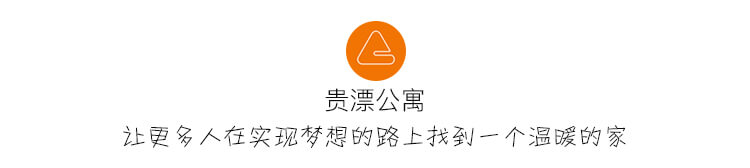
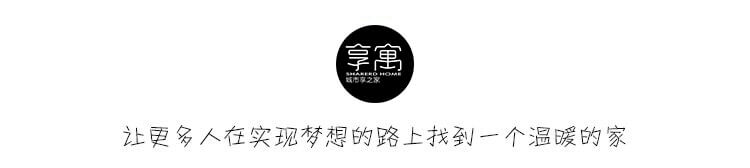
修改为享寓相关

Changed region(s): [[0.4293, 0.119, 0.5827, 0.6845]]

diff --git a/pages/mainpage/mainpage.js b/pages/mainpage/mainpage.js
@@ -7,8 +7,10 @@ Page({
    */
   data: {
     imageUrl: getApp().globalData.imageUrl,
-    bannerUrl: 'http://localhost:5000/get_banner_house_list',
-    recommendUrl: 'http://localhost:5000/get_recommend_house_list',
+    // bannerUrl: 'http://localhost:5000/get_banner_house_list',
+    // recommendUrl: 'http://localhost:5000/get_recommend_house_list',
+    bannerUrl: 'https://guipiaoke.com/get_banner_house_list',
+    recommendUrl: 'https://guipiaoke.com/get_recommend_house_list',
     bannerList: [],
     recommendList: []
   },

diff --git a/pages/houselist/houselist.js b/pages/houselist/houselist.js
@@ -12,8 +12,8 @@ Page({
     // baseUrl: 'http://gank.io/api/data/Android/',
     // baseUrl: 'http://gank.io/api/data/福利/',
     // baseUrl: 'http://28075cb3.nat123.cc/get_house_info/',
-    // baseUrl: 'https://guipiaoke.com/get_house_info/',
-    baseUrl: 'http://localhost:5000/get_house_info/',
+    baseUrl: 'https://guipiaoke.com/get_house_info/',
+    // baseUrl: 'http://localhost:5000/get_house_info/',
     list: [],
     page: 1,
     size: 10,

diff --git a/pages/housedetail/housedetail.js b/pages/housedetail/housedetail.js
@@ -13,8 +13,8 @@ Page({
     longimage: '', // 长图
     lat: null, // 纬度
     lng: null, // 经度
-    // baseUrl: 'https://guipiaoke.com/get_contact',
-    baseUrl: 'http://localhost:5000/get_contact',
+    baseUrl: 'https://guipiaoke.com/get_contact',
+    // baseUrl: 'http://localhost:5000/get_contact',
     phone:null // 联系电话
   },
 
